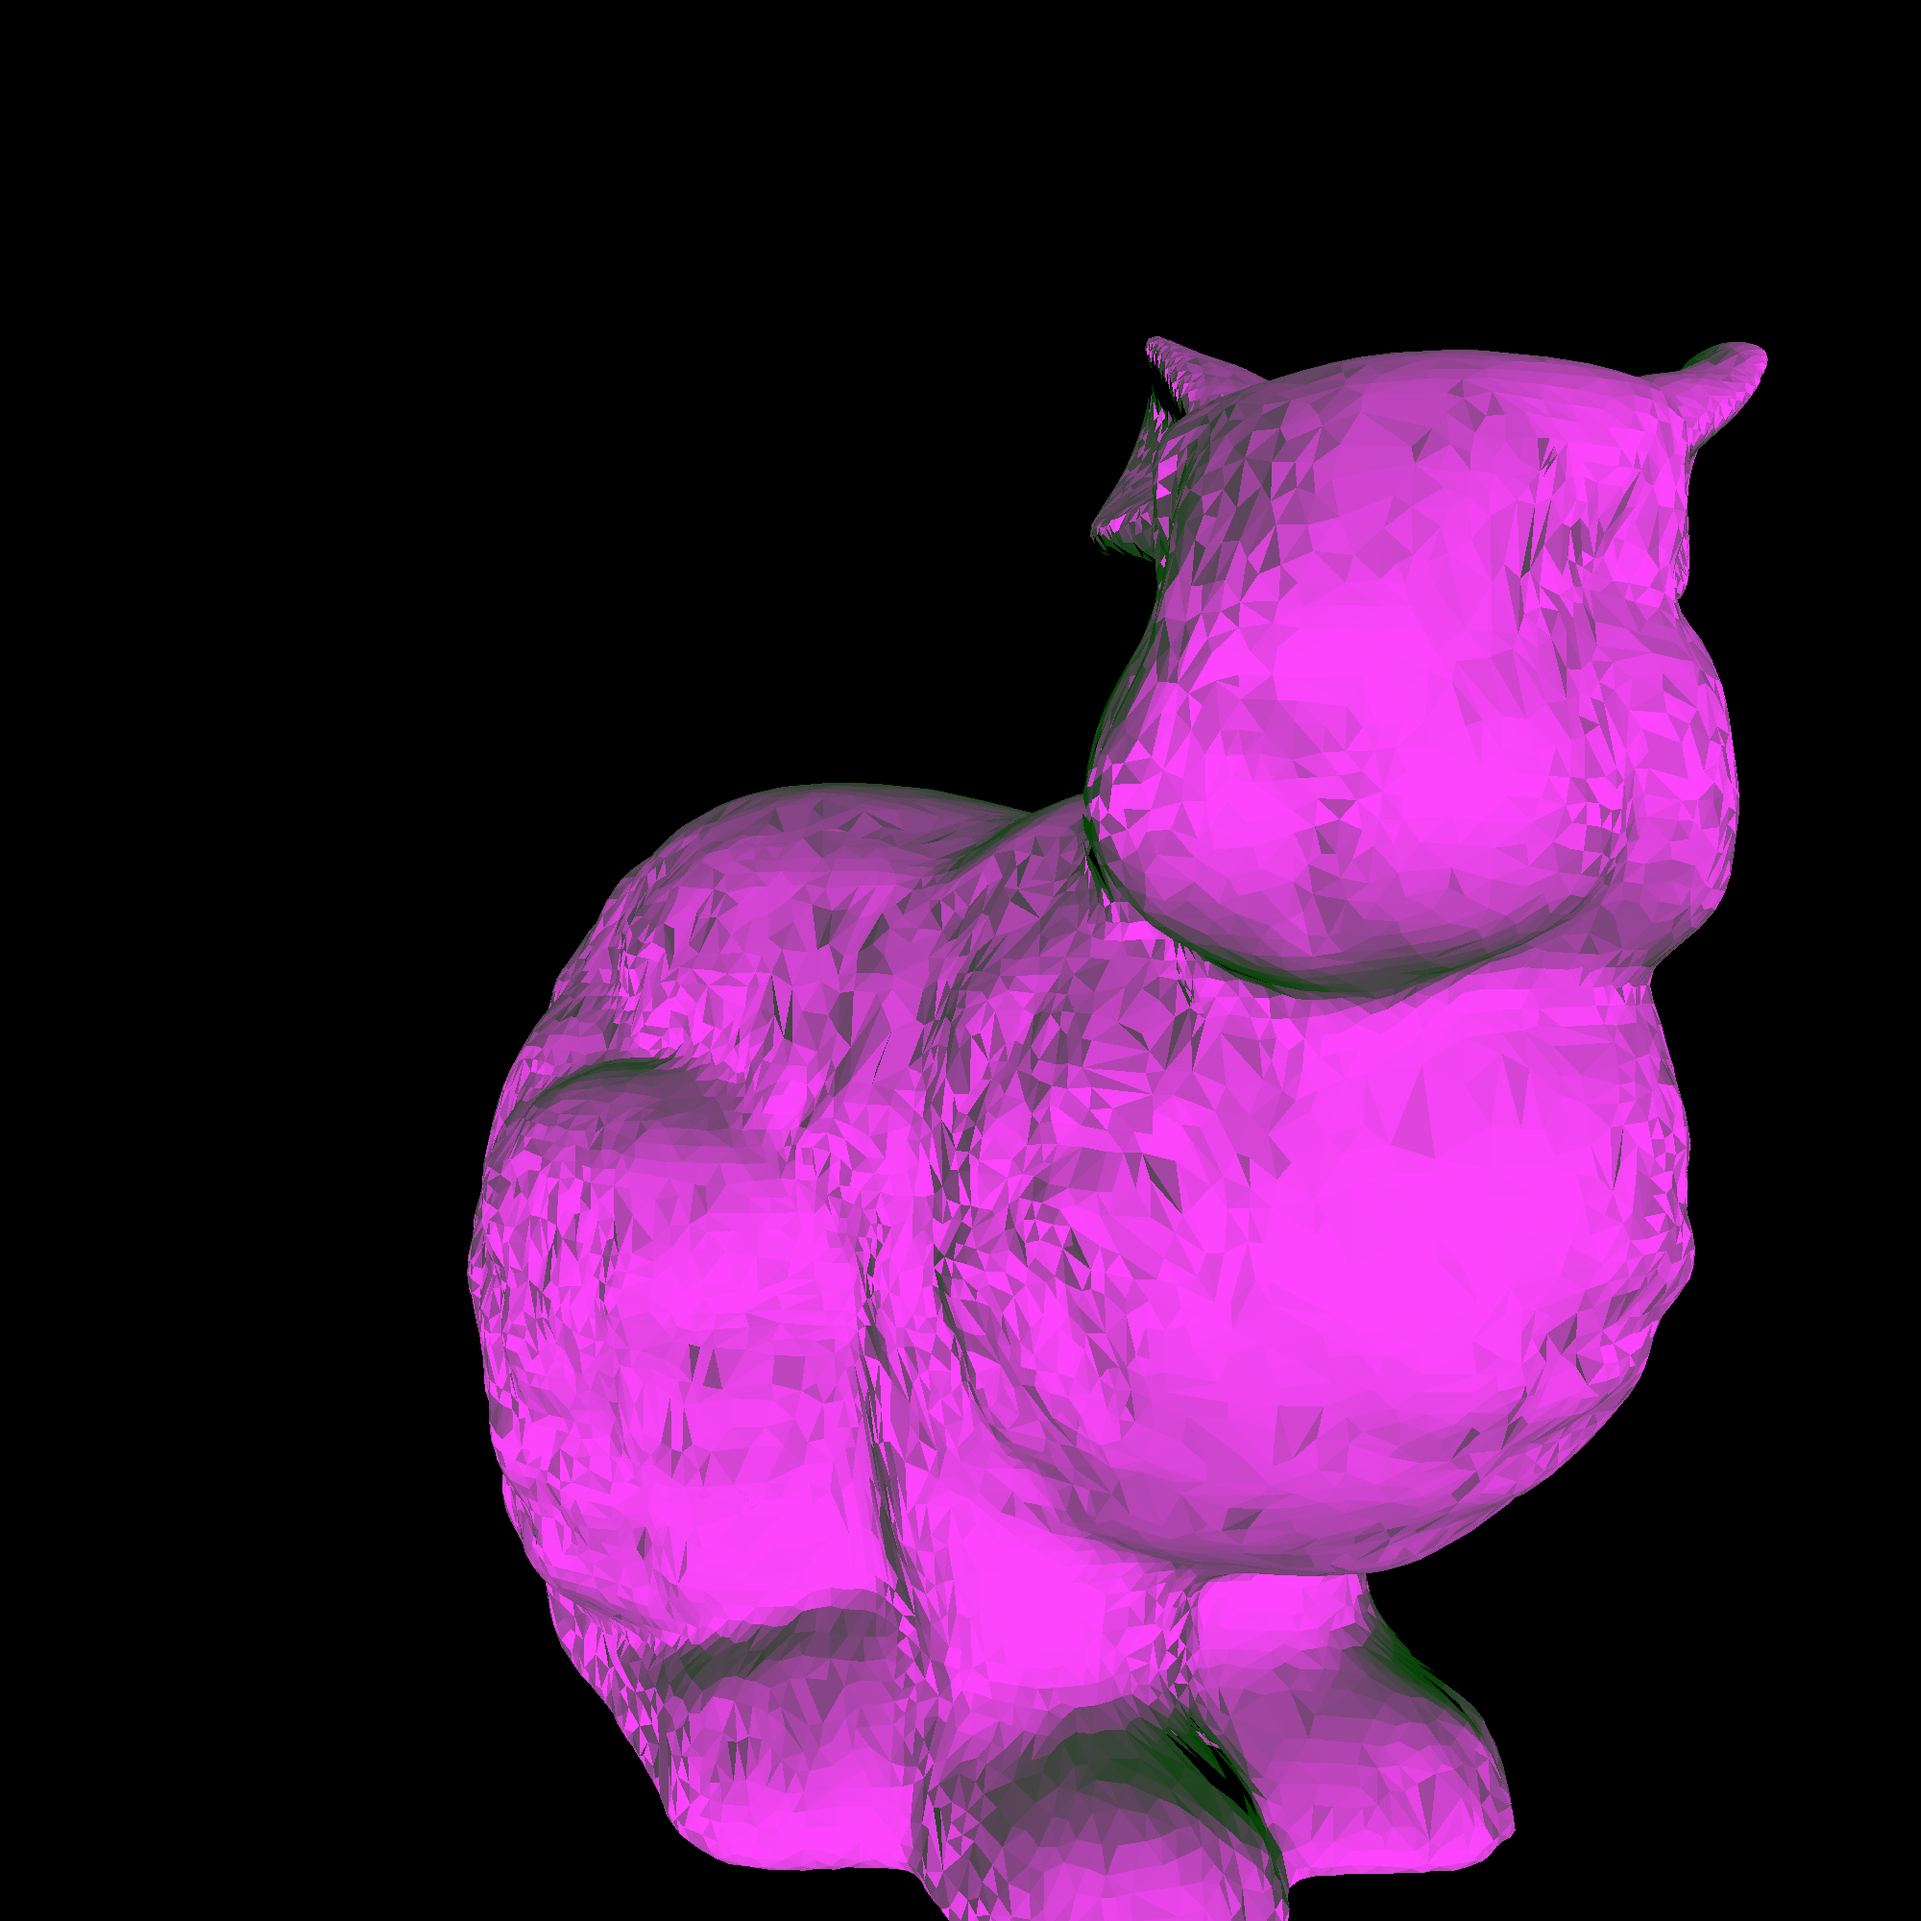
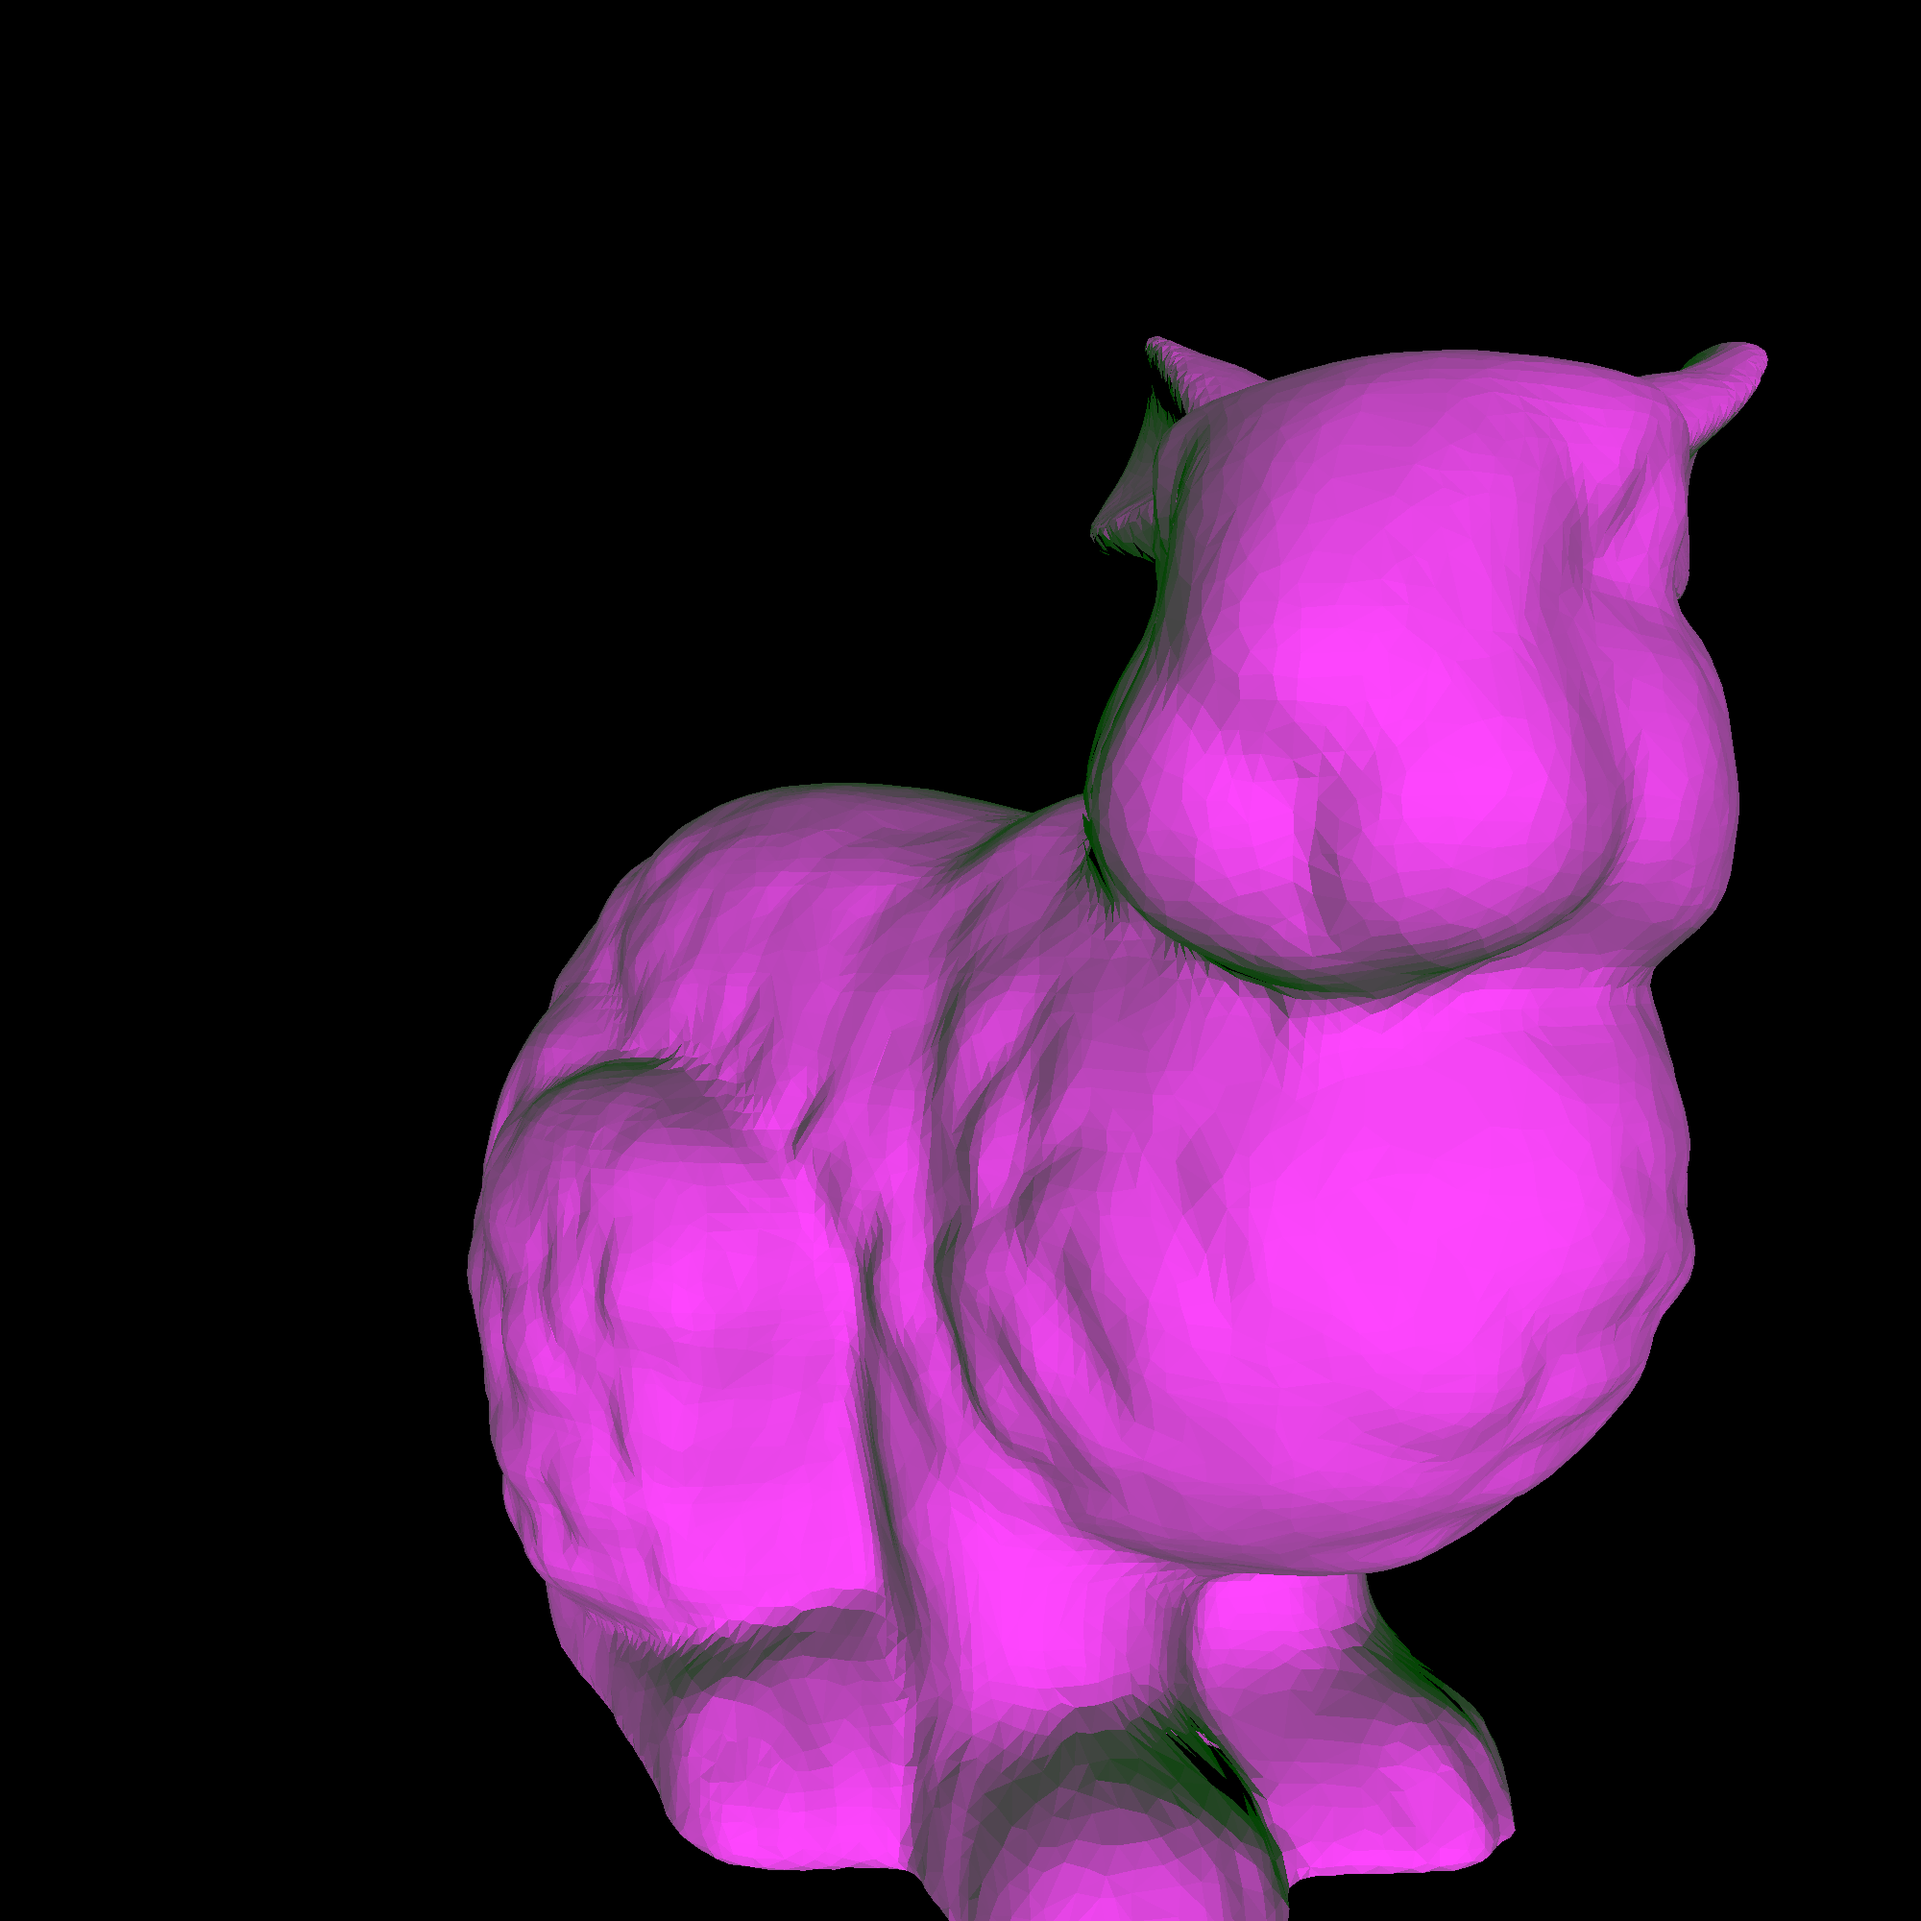
42 братух

diff --git a/SecondLab/lab2.py b/SecondLab/lab2.py
@@ -32,7 +32,7 @@ def calculateBarycentric(x, y, x0, y0, x1, y1, x2, y2):
 
 
 def calcNormal(x0, y0, z0, x1, y1, z1, x2, y2, z2):
-    return ((y1 - y2) * (z1 - z0) - (z1 - z0) * (y1 - y0), -((x1 - x2) * (z1 - z0) - (z1 - z2) * (x1 - x0)),
+    return ((y1 - y2) * (z1 - z0) - (z1 - z2) * (y1 - y0), -((x1 - x2) * (z1 - z0) - (z1 - z2) * (x1 - x0)),
             (x1 - x2) * (y1 - y0) - (y1 - y2) * (x1 - x0))
 
 
